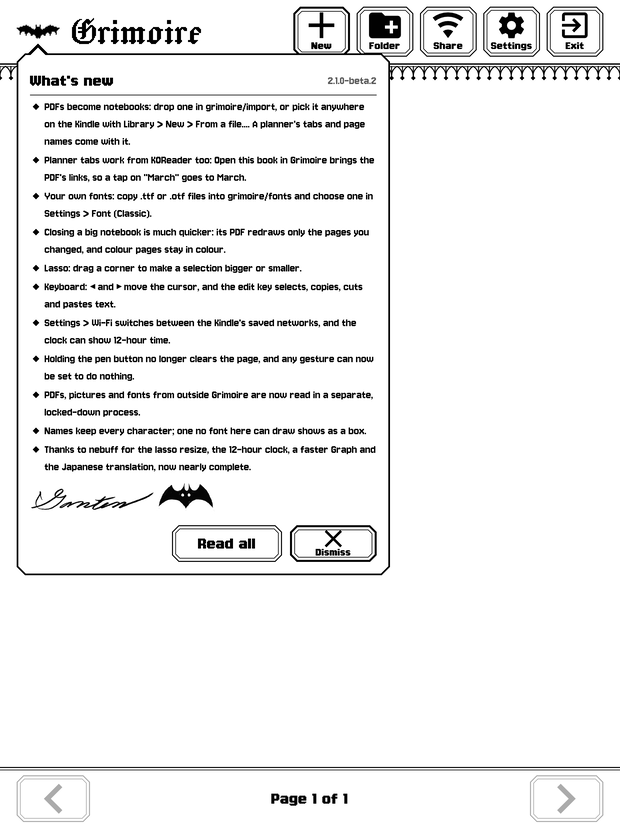
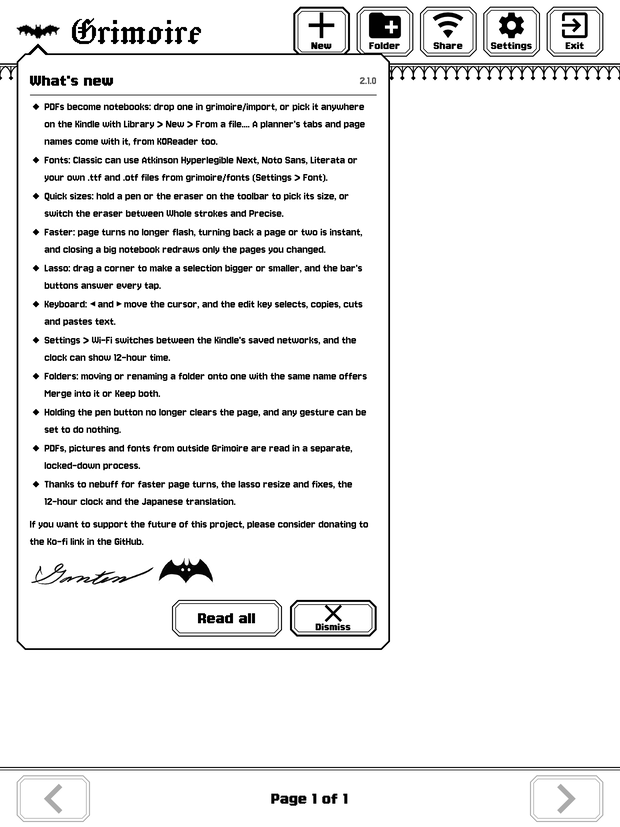
release: prepare 2.1.0
The first stable release of 2.1, from main, on the owner's word of 2026-11-13 ("the current beta has been checked
and is ready"; release main as 2.1.0 on the stable channel). VERSION 2.1.0; CHANGELOG's 2.1.0 section (2026-11-13:
nebuff's page turns and kept page drawings, #49 and #67; the lasso bar and drag fixes, #52; the first input in the
first minute, #74; the platform interface, #61 #62 #70 #71; the development tools, #76); README without the
pre-release banner; docs/TESTING.md's 2.1.0 section; What's new: docs/whatsnew/2.1.0.md, since 2.0.0, the notes
the owner vetted on 2026-11-13; z_about.qs and z_about_list.qs set to the new notes (12 on the card upright, 9
sideways; the list's 5 rows, this version first, marked, dated); docs/screens/whatsnew.png from the new card;
po/grimoire.pot's header. The crate-age rule was waived again for this release by the owner on 2026-11-13: the
same four crates as 2.1.0-beta.2's, crc32fast 1.5.4, log 0.4.35, hayro-cmap 0.1.1 and hayro-postscript 0.2.0.

Refs #80

Claude-Session: https://claude.ai/code/session_01Uoe9ZJNyEZYoc4bsjqbSyQ

Changed region(s): [[0.0306, 0.1511, 0.6435, 0.786], [0.521, 0.0907, 0.6129, 0.1209], [0.0, 0.6953, 0.0306, 0.786]]

diff --git a/CHANGELOG.md b/CHANGELOG.md
@@ -1,5 +1,27 @@
 # Changelog
 
+## 2.1.0 (2026-11-13)
+
+- The first stable release of 2.1: 2.1.0-beta.2 with the changes below, now on the stable channel too (KPM
+  2.1.9999; a preview subscriber is offered it as well). A 2.0.0 install gets everything in the 2.1.0-beta.1 and
+  2.1.0-beta.2 sections with it. Fixes come as 2.1.1, 2.1.2 and so on, new features as 2.2.
+- Page turns at the fitted view no longer flash, and turning back a page or two is instant (nebuff, #49). A page
+  turn at the fitted view is a grayscale refresh without a flash (a turn at another view, the Library and back, and
+  every 30th refresh still flash, which also cleans what fast refreshes left). The whole drawings of the last three
+  pages you left are kept in memory (4.6 MB each), so turning back to one shows it at once rather than drawing
+  every stroke again; a page written since is drawn again. A jump to the oldest of the three is shown from memory
+  too (issue #60, nebuff, #67): it had been put aside before it was read.
+- The lasso's bar answers every tap, and a drag leaves fewer traces (nebuff, #52, issues #50 and #51). A bar button
+  shows a pressed look as the pen or finger comes down and acts at the lift, so Copy, which changes nothing on the
+  screen, still shows it was tapped; a contact that slides off a button does nothing. The first fast refresh after
+  a flashing one now waits for it to end (the two on the panel at once tore the drag's first strips), and the
+  outline a drag leaves counts toward the cleaning of fast refreshes' traces.
+- The first pen, touch or key press in the Kindle's first minute after a restart counts as activity for its sleep
+  timer, as every later one does (issue #74). It was not passed on to the power service until a minute had gone.
+- Grimoire's core can be built for another device, with that device's parts in a crate of their own (#61, #62,
+  #70, #71). On a Kindle nothing changes.
+- `make dev` and `tools/kindle-dev` work on more Macs and on Linux (nebuff, #76).
+
 ## 2.1.0-beta.2 (2026-11-11)
 
 - **Closing a big notebook no longer redraws every page.** The PDF of a notebook (the mirror in `PDFs/`) kept

diff --git a/docs/whatsnew/2.1.0.md b/docs/whatsnew/2.1.0.md
@@ -1,0 +1,17 @@
+# What's new (since 2.0.0)
+
+- PDFs become notebooks: drop one in grimoire/import, or pick it anywhere on the Kindle with Library > New > From a file.... A planner's tabs and page names come with it, from KOReader too.
+- Fonts: Classic can use Atkinson Hyperlegible Next, Noto Sans, Literata or your own .ttf and .otf files from grimoire/fonts (Settings > Font).
+- Quick sizes: hold a pen or the eraser on the toolbar to pick its size, or switch the eraser between Whole strokes and Precise.
+- Faster: page turns no longer flash, turning back a page or two is instant, and closing a big notebook redraws only the pages you changed.
+- Lasso: drag a corner to make a selection bigger or smaller, and the bar's buttons answer every tap.
+- Keyboard: ◀ and ▶ move the cursor, and the edit key selects, copies, cuts and pastes text.
+- Settings > Wi-Fi switches between the Kindle's saved networks, and the clock can show 12-hour time.
+- Folders: moving or renaming a folder onto one with the same name offers Merge into it or Keep both.
+- Holding the pen button no longer clears the page, and any gesture can be set to do nothing.
+- PDFs, pictures and fonts from outside Grimoire are read in a separate, locked-down process.
+- Thanks to nebuff for faster page turns, the lasso resize and fixes, the 12-hour clock and the Japanese translation.
+
+If you want to support the future of this project, please consider donating to the Ko-fi link in the GitHub.
+
+{signature}

diff --git a/docs/TESTING.md b/docs/TESTING.md
@@ -2447,3 +2447,12 @@ button held with the pen near the screen, the page staying; Disable in Settings 
 keyboard's ◀ ▶ and edit keys in a rename and in Find, and its narrower text box; Settings > Wi-Fi with the saved
 networks, a switch to another and back, and the sheet with Wi-Fi off. The owner's verdict, 2026-11-12: "all good".
 
+## 2.1.0
+
+The first stable release of 2.1: 2.1.0-beta.2 (above) with everything in CHANGELOG's 2.1.0 section, released from
+`main`. Automated: the full gate on the release commit with the pinned toolchain. On 2026-11-13 the owner reported
+"the current beta has been checked and is ready", and chose to release `main` as 2.1.0 on the stable channel. The
+crate-age rule (two weeks at the tag) was waived again for this release by the owner on 2026-11-13: crc32fast 1.5.4,
+log 0.4.35, hayro-cmap 0.1.1 and hayro-postscript 0.2.0 are younger (all are two weeks old on 2026-11-16), the same
+four as 2.1.0-beta.2's waiver. Not yet checked on a Scribe with this release's own build: its What's new, which
+opens by itself on the first start after the update.

diff --git a/README.md b/README.md
@@ -36,11 +36,6 @@ Free software under the GPL-3.0. Not affiliated with or endorsed by Amazon.
 The pages above were drawn on a Kindle Scribe in Grimoire; the last picture is Live view, the
 Kindle's screen in a computer's browser as you write.
 
-> **Pre-release 2.1.0-beta.2.** The second beta of 2.1: Grimoire is in daily use on a Kindle Scribe, and
-> every build passes several hundred automated checks, but it is a beta: it autosaves every stroke and
-> keeps damaged files instead of overwriting them, and you should still copy your notebooks off now and
-> then (Library > Share makes that one click).
-
 ## Support Grimoire
 
 Grimoire is free, open source and made by one person, with a lot of care. If it has earned a place
